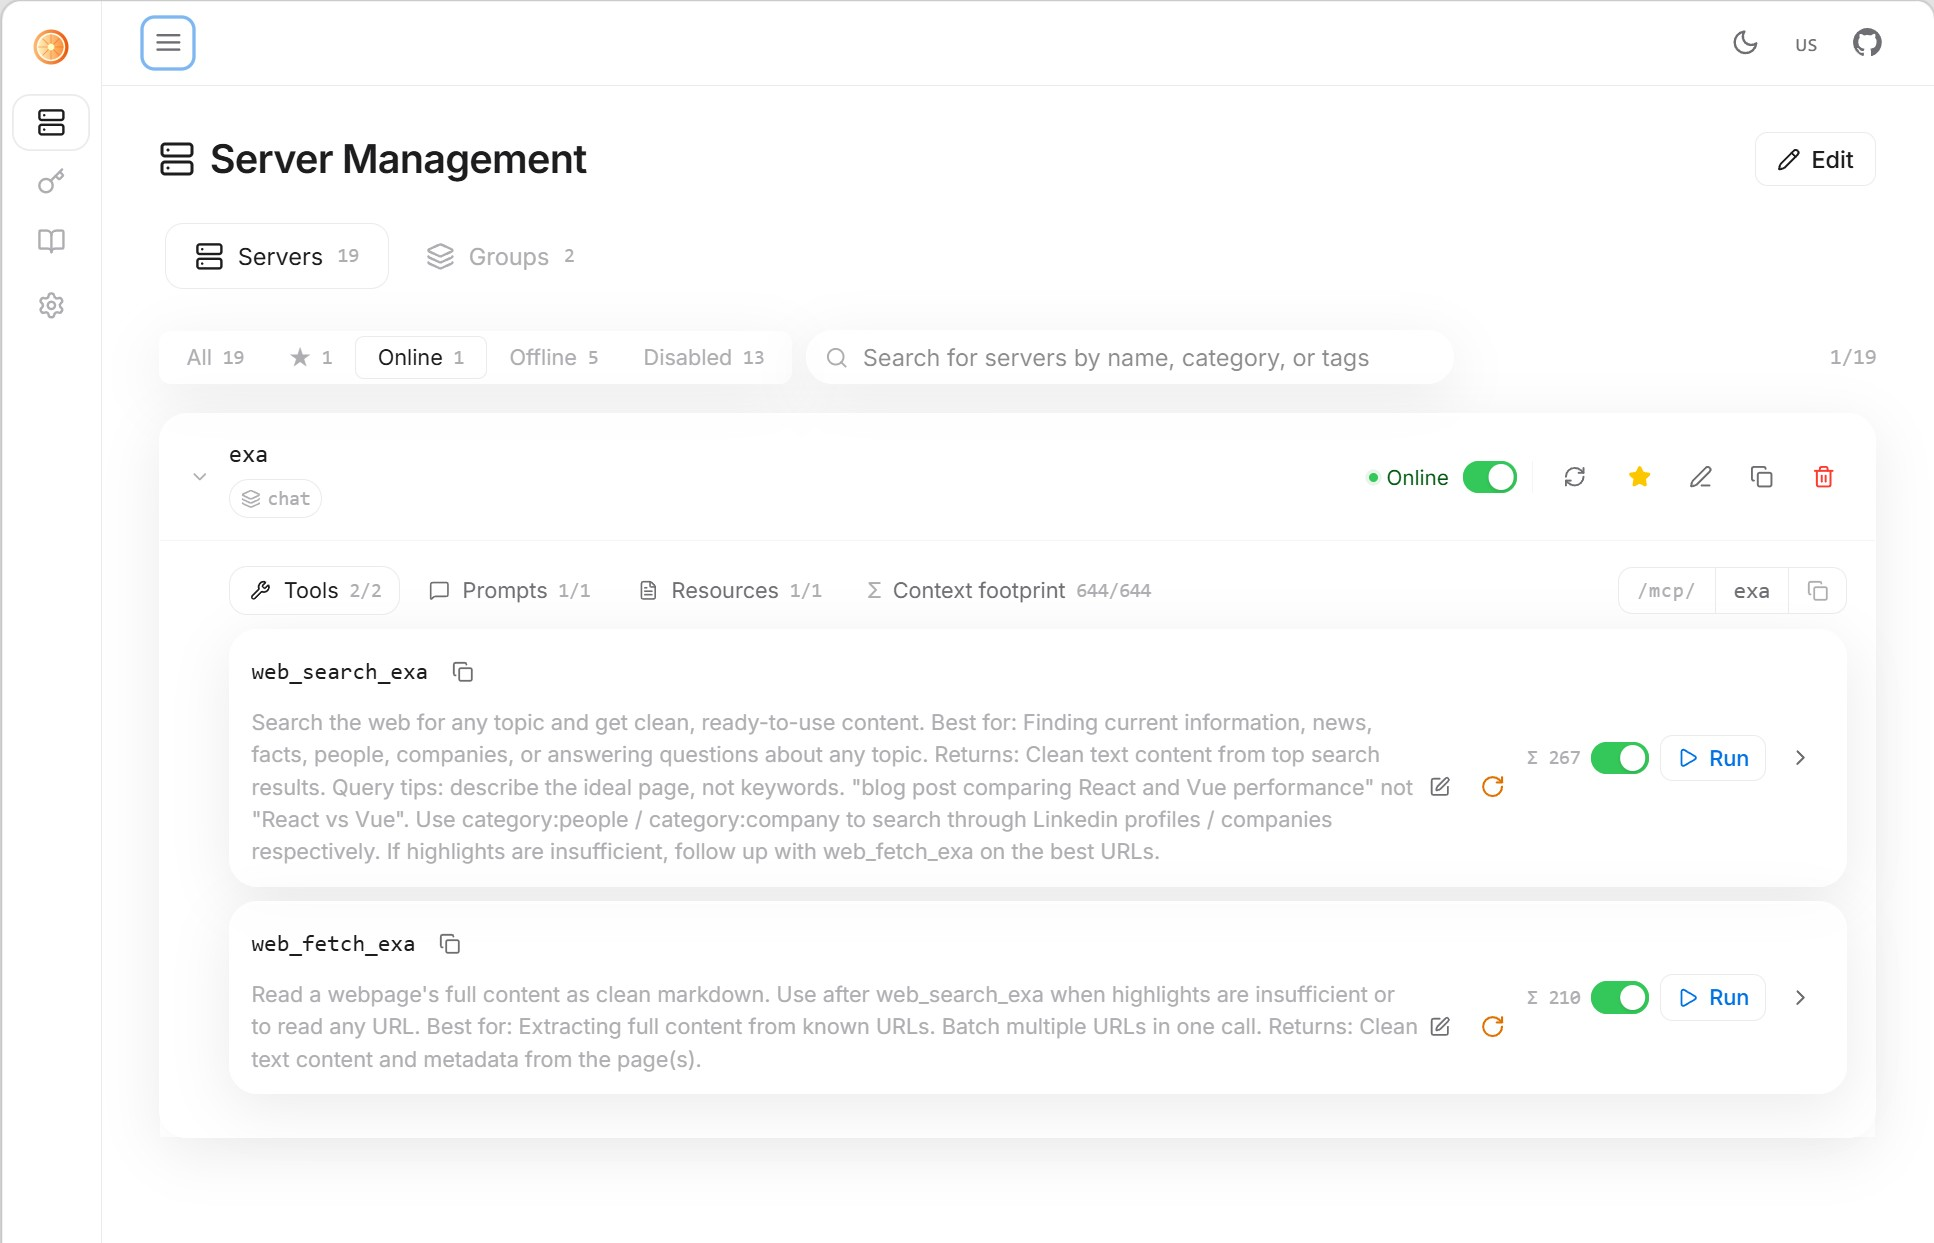
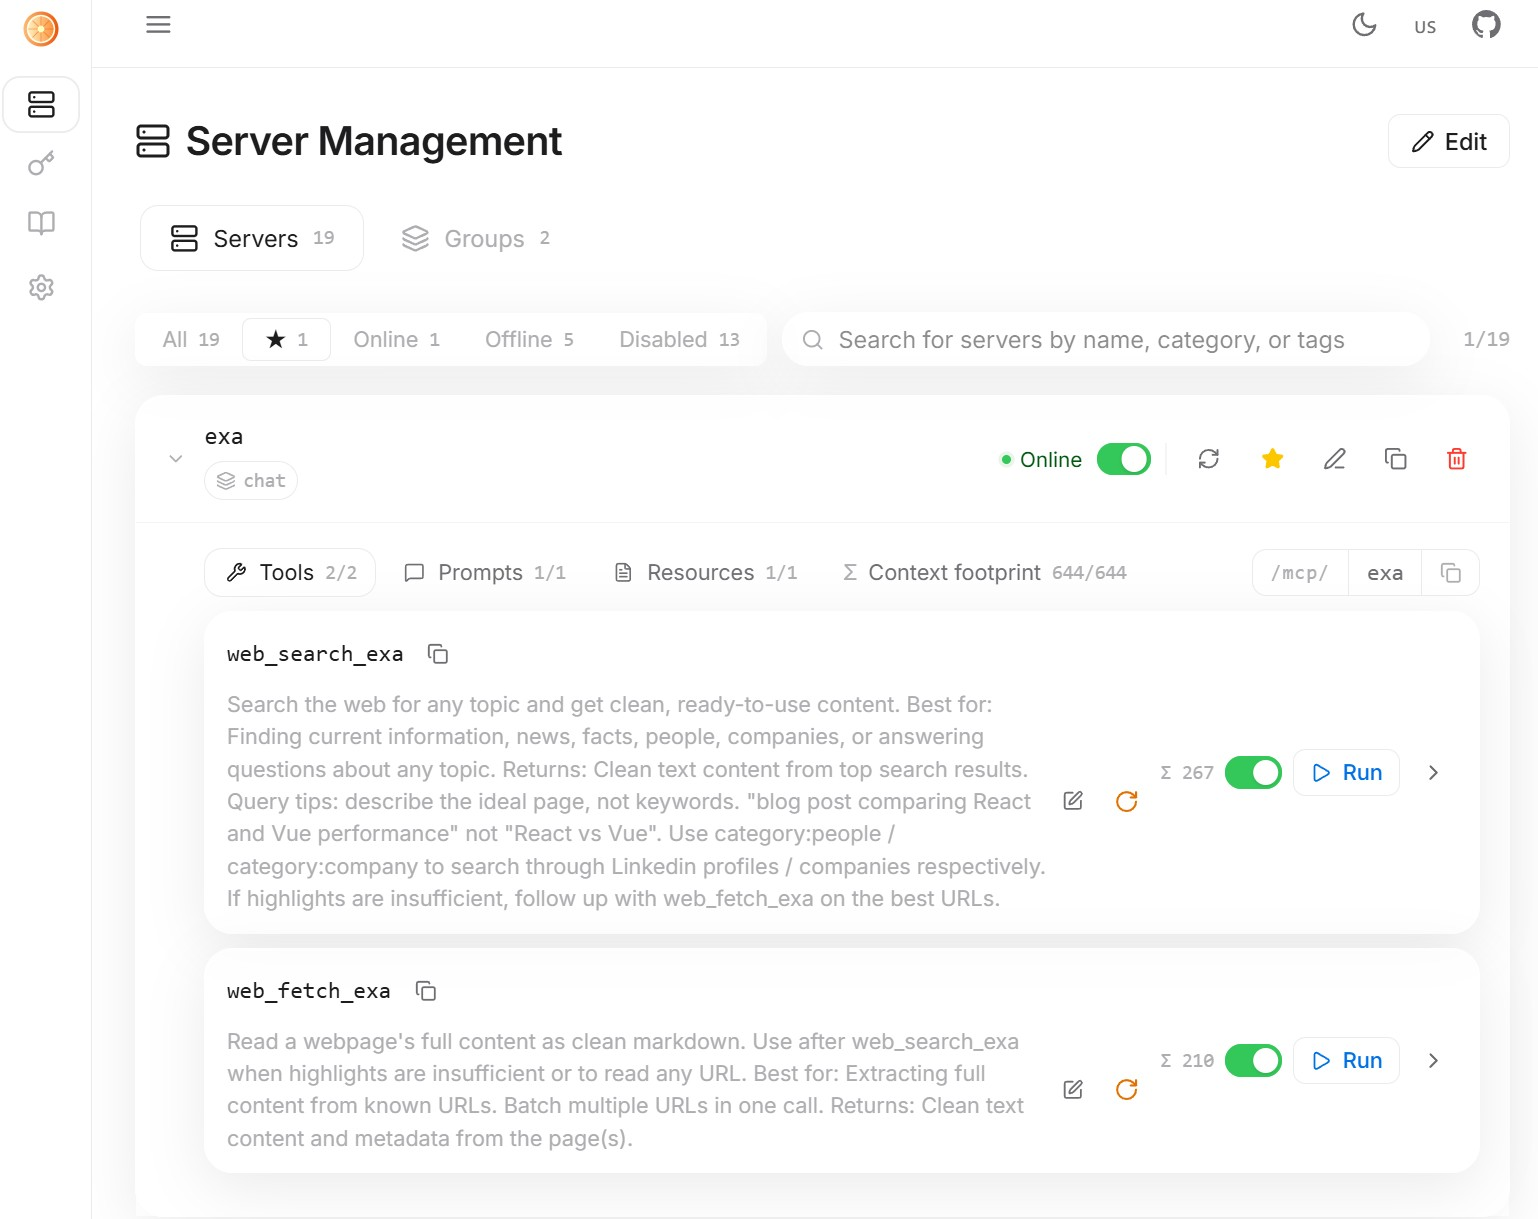
docs: README 补充 aek-skill-manager 和 aek-task-manager 章节说明，README-ZH 同步

diff --git a/README.md b/README.md
@@ -107,6 +107,25 @@ MCP proxy gateway for centralized management of all MCP server connections.
 
 ![aek-mcp tutorial config](static/aek-mcp/2.jpg)
 
+### 🛠 aek-skill-manager
+
+Sync Agent Skills (SKILL.md folders) from a central repository to every AI coding tool's global or project directory.
+
+- **CLI**: `aek sm sync` — sync skills to all configured tools (Claude Code, Cursor, Codex, Gemini, Copilot, OpenCode, etc.)
+- **Bi-directional**: `aek sm pull` — pull skills from a tool back to the central repo
+- **Two scopes**: global (`~/.aek/skill-manager/skills/`) and project (`.aek/skill-manager/skills/`)
+- **Interactive wizard**: run without arguments for a guided setup
+
+### 📋 aek-task-manager
+
+Task Manager for managing long-running agent tasks with approval gates, Git-backed persistence, and cross-session recovery.
+
+- **CLI**: `aek tm` — task management commands
+- **Approval gates**: pause tasks for human approval before proceeding
+- **Git-backed persistence**: task state stored in Git for traceability and recovery
+- **Cross-session recovery**: resume tasks seamlessly across agent sessions
+- **Compiled Go binary**: high performance, minimal footprint, platform-bundled (linux/macOS/Windows)
+
 ---
 
 <!-- Links -->

diff --git a/README-ZH.md b/README-ZH.md
@@ -107,7 +107,24 @@ MCP 代理网关，集中管理所有 MCP 服务器的连接。
 
 ![aek-mcp tutorial config](static/aek-mcp/2.jpg)
 
+### 🛠 aek-skill-manager
 
+从中心仓库同步 Agent Skills（SKILL.md 文件夹）到各 AI 编程工具的全局或项目目录。
+
+- **CLI 命令**：`aek sm sync` — 同步 skill 到所有已配置的工具（Claude Code、Cursor、Codex、Gemini、Copilot、OpenCode 等）
+- **双向同步**：`aek sm pull` — 从某个工具拉取 skill 回中心仓库
+- **两种范围**：全局（`~/.aek/skill-manager/skills/`）和项目（`.aek/skill-manager/skills/`）
+- **交互式向导**：无参数运行进入引导式设置
+
+### 📋 aek-task-manager
+
+任务管理器模块，用于管理长时间运行的任务，支持审批门控、Git 持久化、跨会话恢复。
+
+- **CLI 命令**：`aek tm` — 任务管理命令
+- **审批门控**：暂停任务等待人工审批后再继续
+- **Git 持久化**：任务状态存储在 Git 中，支持追溯和恢复
+- **跨会话恢复**：无缝接续不同 Agent 会话的任务
+- **编译 Go 二进制**：高性能，低资源占用，平台分包（linux/macOS/Windows）
 
 ---
 
